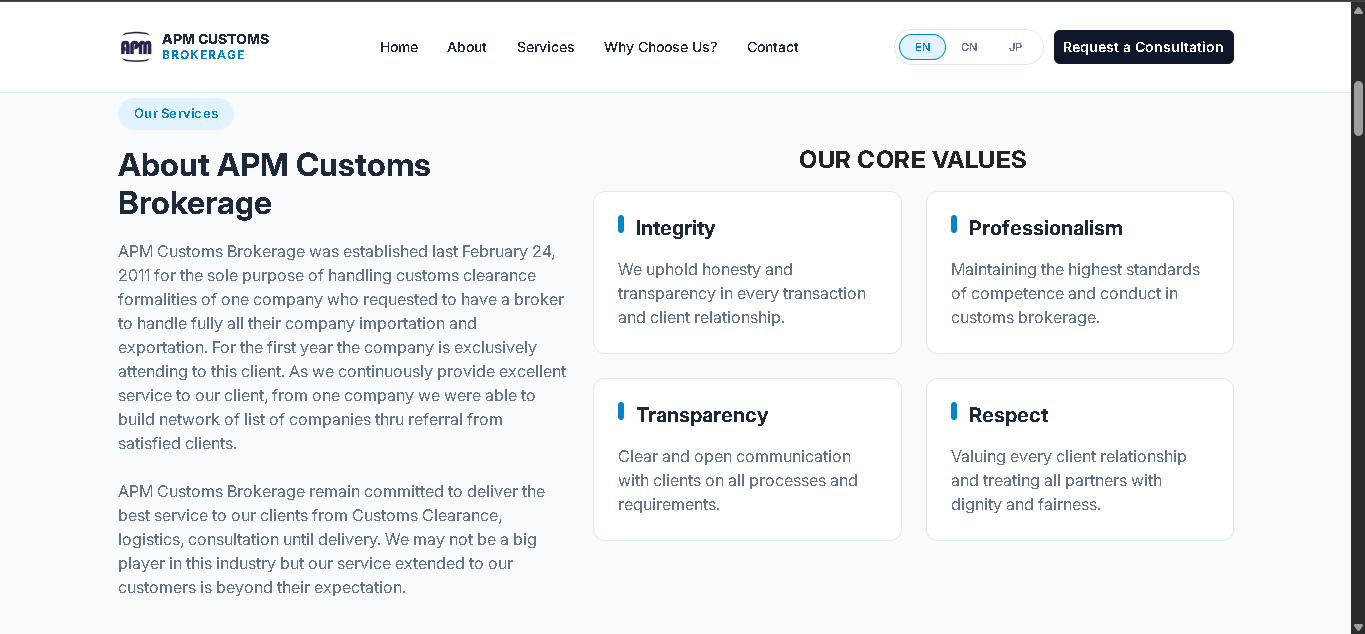
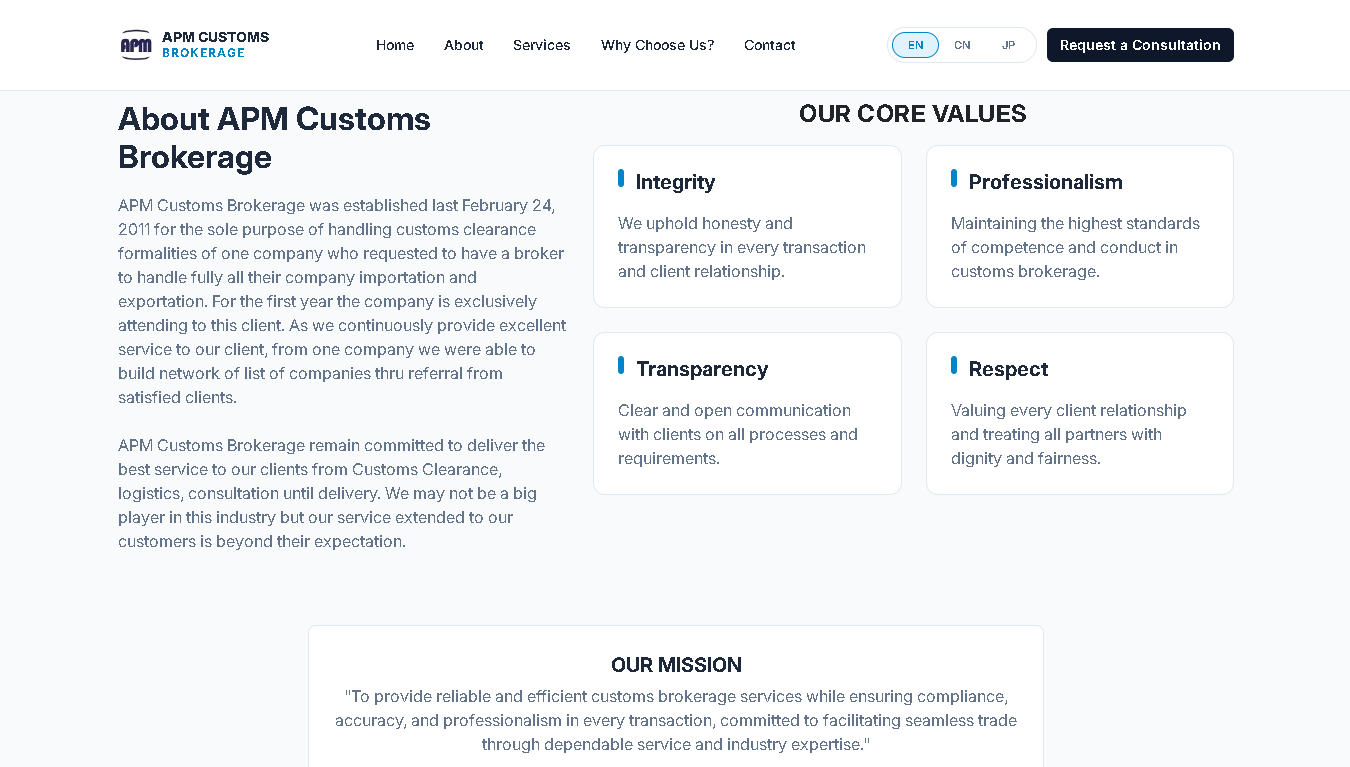
Refactor CSS to prevent horizontal scroll and improve navbar behavior; update image assets 2.png and 3.png

diff --git a/assets/css/style.css b/assets/css/style.css
@@ -3,13 +3,16 @@
 /* Safety net: a stray unwrapped Bootstrap .row (negative gutter
    margins with no .container to offset them) is the classic cause
    of a few extra pixels of horizontal scroll. This keeps the page
-   from ever scrolling sideways even if that happens again. */
+   from ever scrolling sideways even if that happens again.
+   IMPORTANT: this lives on <html> ONLY. Putting `overflow-x:hidden`
+   on <body> as well forces it to become its own scroll container
+   (per the CSS overflow spec, a non-visible value on one axis makes
+   the other axis compute to `auto`) — which is exactly what breaks
+   `position: sticky` navbars: the nav ends up stuck to <body>'s box
+   instead of the real viewport scroll box, so it desyncs and scrolls
+   out of view. Never repeat that on <body>. */
 html{
     overflow-x: hidden;
-}
-body{
-    overflow-x: hidden;
-    max-width: 100vw;
 }
 img, svg, video, canvas{
     max-width: 100%;
